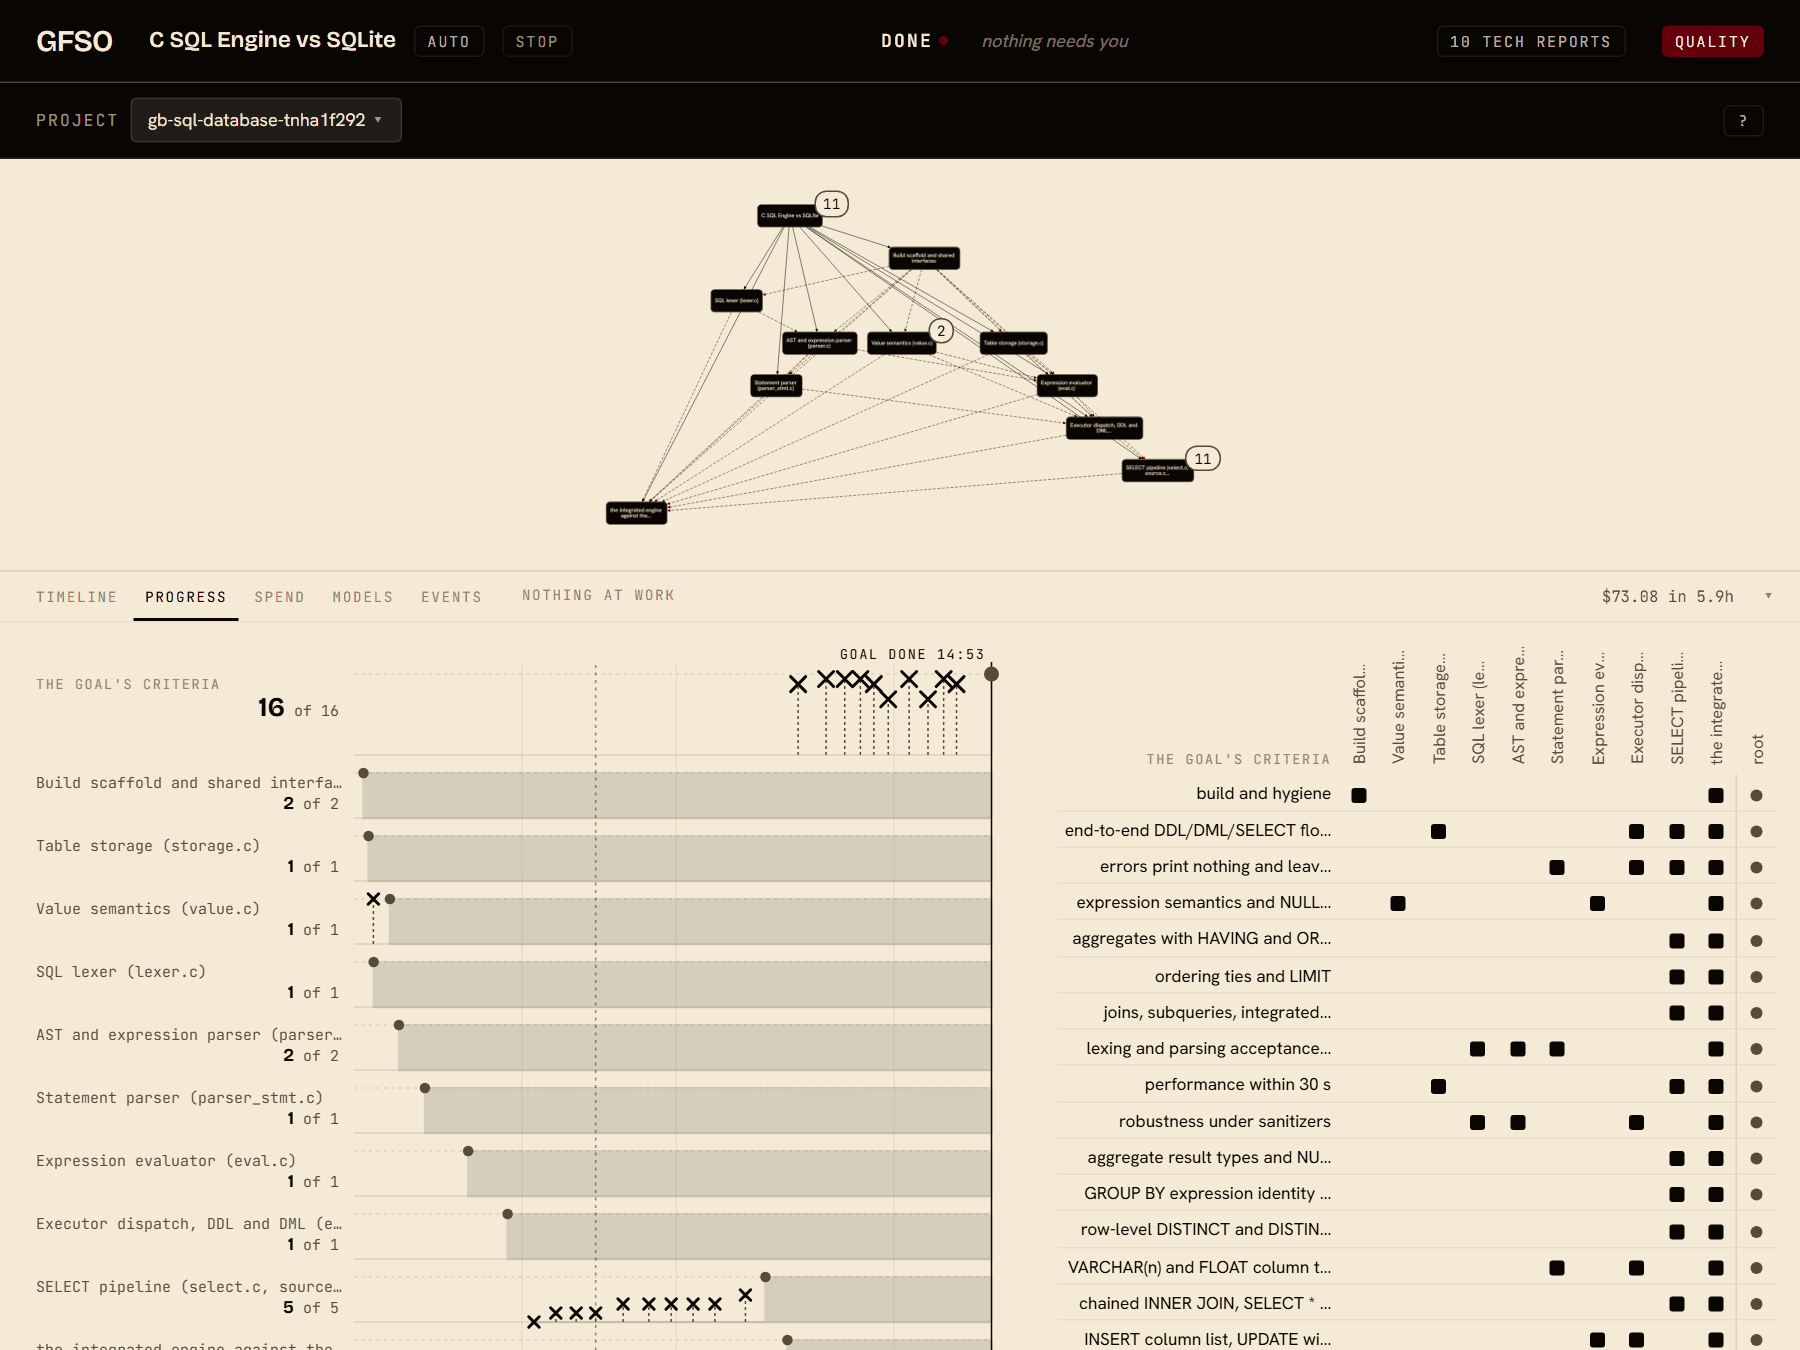
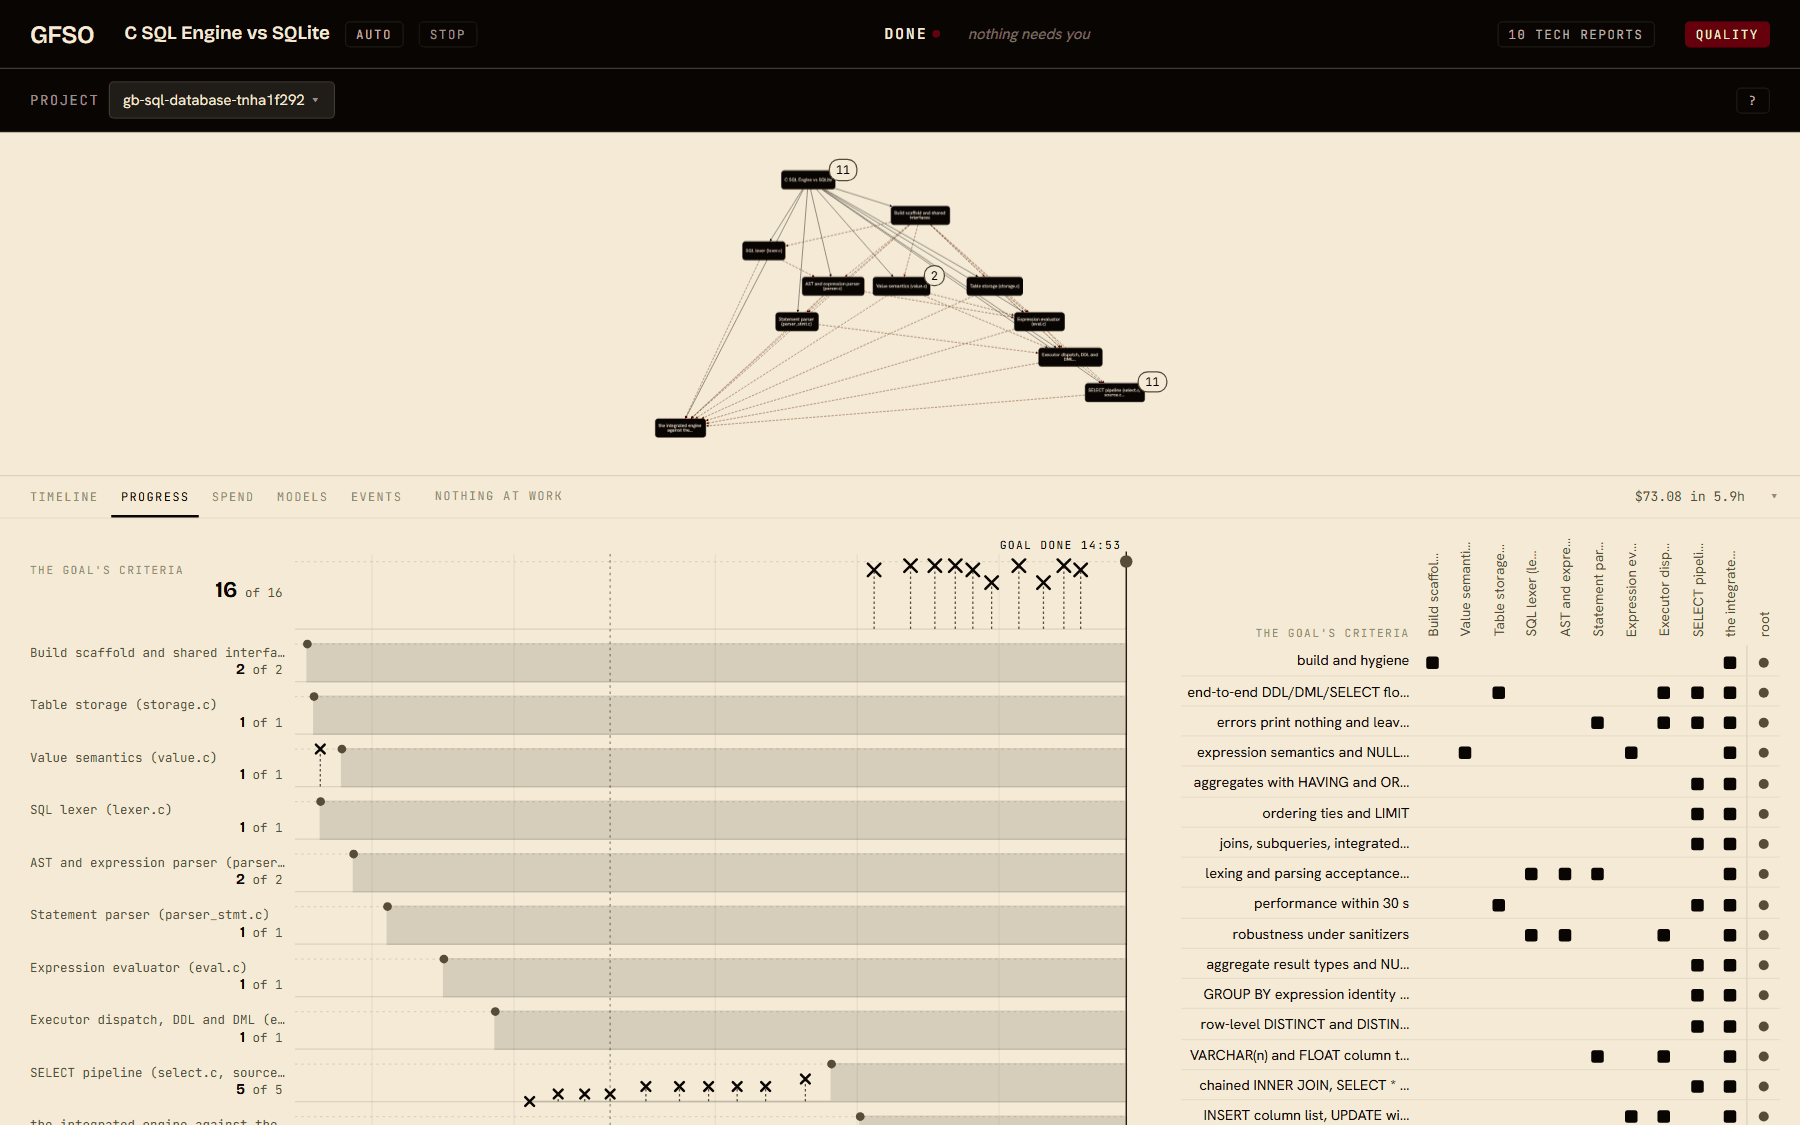
The README's pictures are shot at a usual monitor's 16:10 (1440×900 at 1.25×, files still 1800 px wide), where the graph, the panel and the deck sit as on the page

diff --git a/scripts/readme_media.py b/scripts/readme_media.py
@@ -30,8 +30,8 @@ from pathlib import Path
 ROOT = Path(__file__).resolve().parents[1]
 DOCS = ROOT / "docs"
 RUN = ROOT / "data" / "gb-sql-database-tnha1f292.db"
-SIZE = {"width": 1200, "height": 900}          # CSS px; at SCALE 1.5 the files are 1800 px wide, as the README's were
-SCALE = 1.5
+SIZE = {"width": 1440, "height": 900}          # CSS px: a usual monitor's 16:10, where the graph, the panel and the deck sit
+SCALE = 1.25                                    # as on the page; the files stay 1800 px wide, as the README's were
 TZ = os.environ.get("MEDIA_TZ", "Asia/Bangkok")  # the zone the default run's stamps were written in (UTC+7)
 
 # What the README shows. `film` = one frame per state change of the run, the last held; `still` = the run's last moment.
